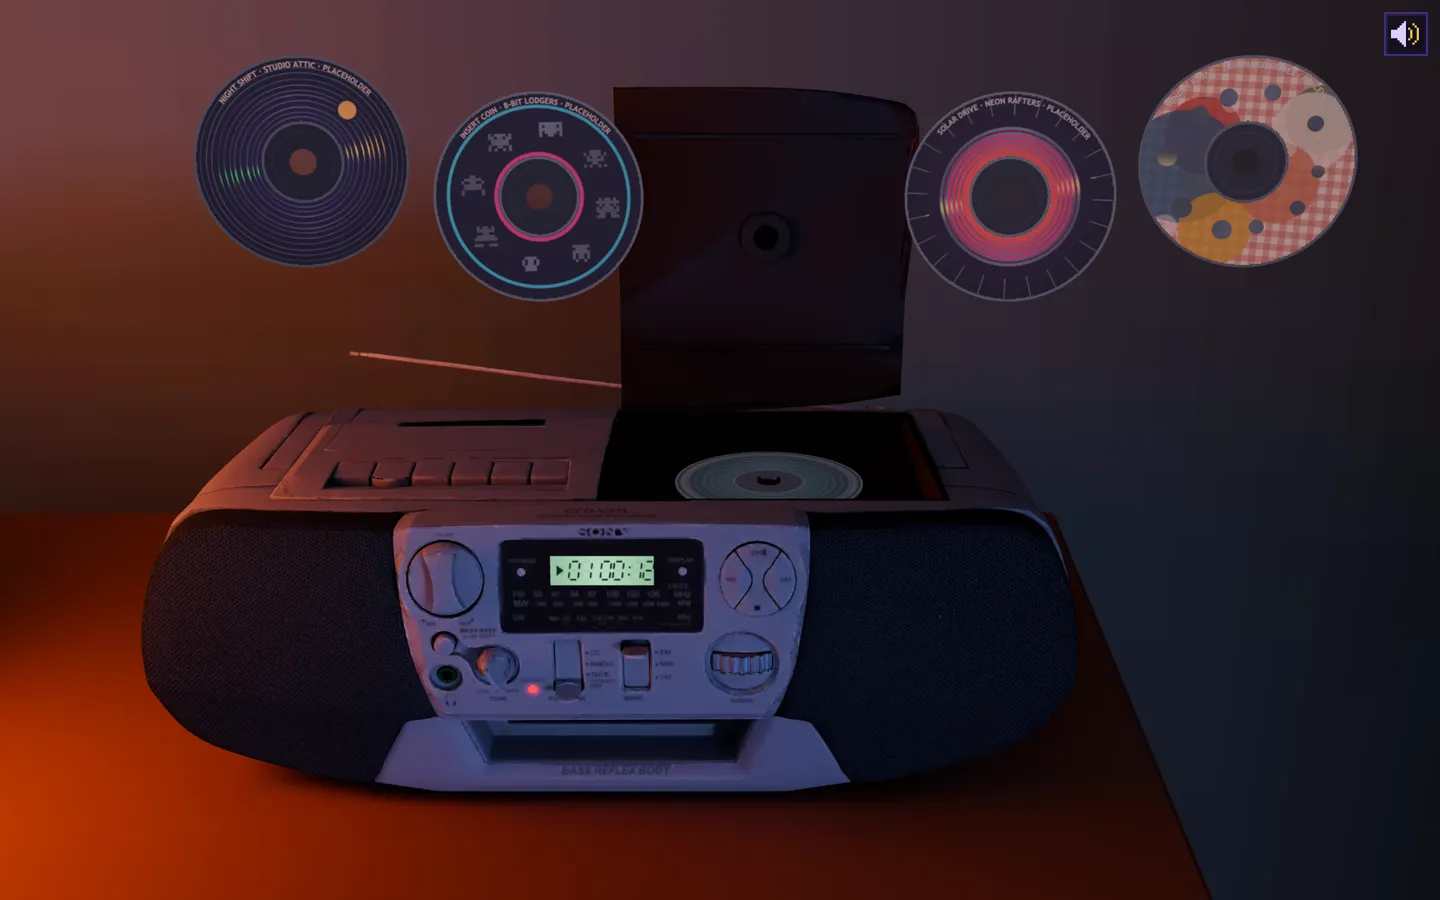
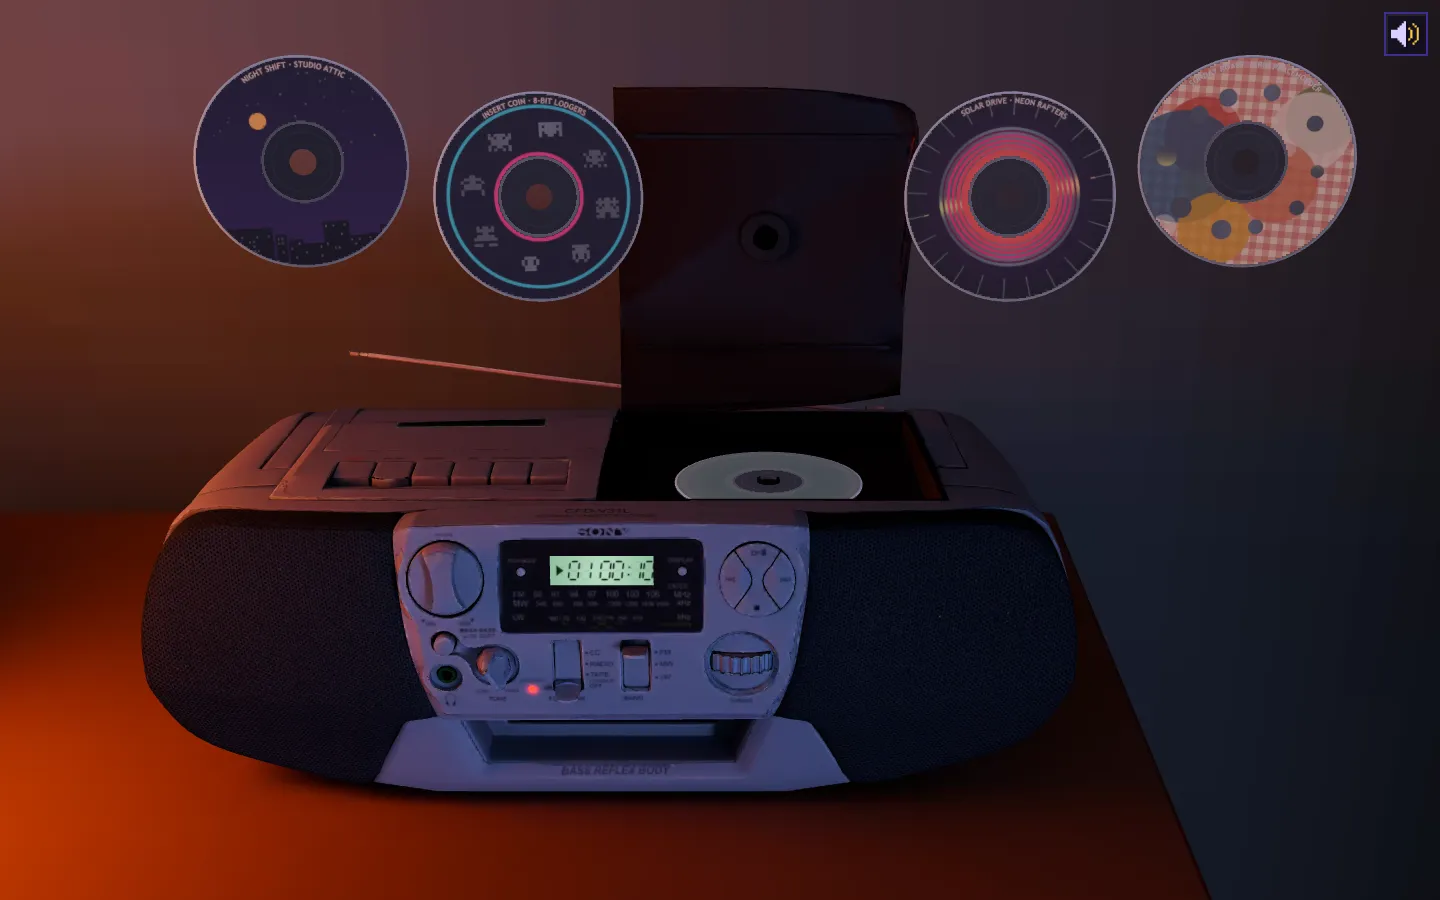
docs(radio): the CD player after the first review
ROOM.md's CD player section describes the new storyboard and its
timings, the no-contact guarantee and how it is checked, the skin's
strips, urgent and patient idle work, the lazy pose, the prints'
behaviour, the reduced-motion hold and the re-measured frames and first
frame. RADIO.md follows the 0.4 s prefetch, the hint, the bar, the rim
text, the art timeout, the foley's idle start and the new measurements;
PC.md notes that the reader's focus ring follows the page's last input
from its start (a behaviour change from feat/pc-desktop); the art
direction gets a fresh capture from the app.

bundle-budgets.json records what the fixes cost, pending the captain's
word: the room chunk 189.15 -> 189.52 kB (budget 189.55) for the lazy
pose and cut hold, urgent and patient idle work, the close-up fetched
beside the chunk, the shelf signal and one seat per insert; the lazy
device 22.11 -> 25.76 kB (budget 26.0) for the contact-free storyboard,
the skin's strips, the safe cut, moments without frames, the prints'
fade and the data side's light.

diff --git a/docs/RADIO.md b/docs/RADIO.md
@@ -40,8 +40,8 @@ It renders a portal into `deck.controls` only, a sibling of the stage outside `r
 | Chunk | Contents | Loaded |
 | --- | --- | --- |
 | main bundle | `RadioSlot.tsx` and its failure message's style | first load |
-| `RadioExperience-*` (`RadioExperience.tsx` + CSS) | the player, the foley recipes, the Media Session, the print painter, the controls, the shelf's data and file URLs | at once when the view becomes `radio` (the 1.1 s flight hides it); or at idle once the camera has rested in the room view for 3 s (after the computer's screen, which loads as the camera lands, and the room's half, `deck.prefetch('idle')` at 1.5 s, so the lid opens on time for a visitor who heads for the radio soon); it first mounts, and paints the prints, only while the camera rests; never on Save-Data, never before the TV's picture is up, never for a radio that is `available: false` |
-| covers and prints | five WebPs, decoded off the main thread at the label size (`createImageBitmap` with a resize), then painted one per idle moment while the camera rests away from the TV (`labels/discPrints.ts`) and handed to the room together | when the player mounts |
+| `RadioExperience-*` (`RadioExperience.tsx` + CSS) | the player, the foley recipes, the Media Session, the print painter, the controls, the shelf's data and file URLs | at once when the view becomes `radio` (the 1.1 s flight hides it); or at idle once the camera has rested in the room view for 3 s (after the computer's screen, which loads as the camera lands, and the room's half, `deck.prefetch('idle')` at 0.4 s, so a visitor who heads for the radio at once still finds its device preparing on the way and the lid opening on time); it first mounts, and paints the prints, only while the camera rests; never on Save-Data, never before the TV's picture is up, never for a radio that is `available: false` |
+| covers and prints | five WebPs, decoded off the main thread at the label size (`createImageBitmap` with a resize), then painted one per idle moment while the camera rests away from the TV (`labels/discPrints.ts`) on CPU canvases (nothing reads the GPU back) and handed to the room together; one that has not arrived in 6 s is given up on (`labels/loadArt.ts`) | when the player mounts |
 | audio | one track at a time, streamed | from the pick that needs it |
 
 Once loaded the player stays mounted for the page, so the music survives leaving the radio.
@@ -80,7 +80,7 @@ A hidden tab keeps playing.
 
 Every cue the room emits plays a synthesised engine `SfxRecipe` (clicks, latches, whooshes, the motor's spin-up and spin-down, a pentatonic bell per rising disc, descending as they sink), plus the app's own `seek` tick on each skip, between −22 and −40 dBFS, panned from where the part moves on screen.
 Nothing is continuous while playing: a real CD motor is silent at speed.
-They play in a small `AudioContext` of their own (the game's is suspended whenever the camera leaves the TV). It is made with its mixer graph as the player mounts away from the radio (at idle, suspended, once the page has had user activation), so the click that sends the camera there only resumes it, or else inside the first radio gesture; resumed in every radio gesture and on reaching the radio, suspended 2 s after leaving it; cues arriving while it sleeps are dropped. If it cannot be made the radio is silent of mechanics and the music is unaffected.
+They play in a small `AudioContext` of their own (the game's is suspended whenever the camera leaves the TV). It is made with its mixer graph in an idle moment of its own after the player mounts away from the radio (suspended, once the page has had user activation: making one is the dearest part of the player's start, 74 ms on a slow phone), so the click that sends the camera there only resumes it, or else inside the first radio gesture; resumed in every radio gesture and on reaching the radio, suspended 2 s after leaving it; cues arriving while it sleeps are dropped. If it cannot be made the radio is silent of mechanics and the music is unaffected.
 Each recipe's gain is calibrated from an offline render so it peaks at its level; `e2e/radio-player.spec.ts` renders every one through the engine's mixer and holds it to ±3 dB, no clipping, and silence by its end.
 
 ## Controls (`ui/`)
@@ -89,10 +89,10 @@ Portaled into `deck.controls`, a `<section aria-label="CD player">`. The layer t
 
 - **CDs**: `role="toolbar" aria-label="CDs"`, one Tab stop, ←/→ and Home/End move between the albums (the shared roving tabindex, `app/a11y/roving.ts`). One button per album sits as a circle over its disc (over the seat for the loaded one), invisible until a keyboard focus rings the disc itself in `#ffc83d` and brings it forward. Labels say "Night Shift by Studio Attic, 2 tracks", with ", in the player" and `aria-current` for the loaded disc. Enter or Space plays it (the loaded one: play/pause).
 - **Transport** on fine pointers: `role="toolbar" aria-label="CD player controls"`, "Previous track", "Play"/"Pause" (the label changes, no `aria-pressed`), "Stop", "Next track", each over its key on the model; `aria-disabled` with an empty player (still focusable: activation says "Choose a CD first.").
-- **Touch bar** on a primary coarse pointer: 48 px keys on the sound toggle's dark plate: back ("Look around the room"), ⏮, ▶/‖, ■, ⏭ and "Kettle On · Night Shift" along the bottom (64 px plus the safe area), or stacked down a right rail on a landscape phone under 480 px tall. Each key presses its 3D twin too. It reports its strip through `setControlInsets`, and the room frames the radio clear of it.
+- **Touch bar** on a primary coarse pointer: 48 px keys on the sound toggle's dark plate: back ("Look around the room"), ⏮, ▶/‖, ■, ⏭ and what plays on two lines, the track over the album ("Kettle On", "Night Shift"), along the bottom (64 px plus the safe area), or stacked down a right rail on a landscape phone under 480 px tall. Each key presses its 3D twin too. It reports its strip through `setControlInsets`, and the room frames the radio clear of it.
 - **Caption** (`aria-hidden`): under the disc that has the visitor's attention (over it for the disc in the player, so the keys stay in sight), in the view hint's pixel plate: "Night Shift — Studio Attic", "2 tracks · 1:38", a "placeholder" tag and "Sound is off" when they apply; a 120 ms fade.
-- **Hint** (`radioHints.ts`, `localStorage` `reo-leo:radio-hints`): 1.2 s after landing, "Click a CD to play it" ("Tap…" on touch) until the first pick; then, with a mouse, "Click outside the radio to look around" until the visitor has left once.
-- **One live region** (`role="status"`, polite): "Playing Kettle On, track 1 of 2, from Night Shift by Studio Attic." (+ " Sound is off."), "Paused.", "Playing.", "Stopped.", "End of the CD.", "This track could not be played.", "Choose a CD first.", "Press play to start the music." The same words within a second are said once; never the clock, a hover or a focus.
+- **Hint** (`radioHints.ts`, `localStorage` `reo-leo:radio-hints`): 450 ms after the discs are up (never before: it names them), "Click a CD to play it" ("Tap…" on touch, "Press Enter to play a CD" for a keyboard) until the first pick; then, with a mouse or a keyboard, "Click outside the radio to look around" ("Press Escape to look around") until the visitor has left once. On a phone's bottom bar it shows in the bar, where what plays will be (on two lines if it must); elsewhere in the view hint's plate.
+- **One live region** (`role="status"`, polite): "Playing Kettle On, track 1 of 2, from Night Shift by Studio Attic." (+ " Sound is off."), "Track 2 of 2, Window Seat." (a track chosen while paused or stopped), "Paused.", "Playing.", "Stopped.", "End of the CD.", "This track could not be played.", "Choose a CD first.", "Press play to start the music." The same words within a second are said once; never the clock, a hover or a focus. The CDs' toolbar is described by "Enter plays a CD; Escape returns to the room." for a screen reader landing on it.
 - **Keyboard**: arriving moves focus to the CDs (the loaded disc's button, else the first); Escape anywhere in the controls leaves for the room; the controls hiding with focus inside hand it back to the stage.
 
 **Media Session** (`player/mediaSession.ts`): while a disc is loaded, the track's title, the artist, the album and its cover; `playbackState`; play, pause, stop, previous and next as the radio's keys (pressing the 3D key while the visitor is at the radio; at the TV, play only asks to resume on leaving); the position on play, pause, track changes and seeks. Nothing at all with no disc, or without the API.
@@ -105,7 +105,7 @@ Portaled into `deck.controls`, a `<section aria-label="CD player">`. The layer t
 The five placeholders are original, made for this site: eleven tracks composed in the game's own tracker (`scripts/radio/songs`), rendered through the game's synth, loudness-matched to the game's first stage and encoded to AAC (4.94 MB together), and seeded generative covers and prints without text or marks (`scripts/radio/covers.ts`); see `scripts/radio/README.md`.
 Each is marked `placeholder: true`, so its caption and its print say so.
 
-Disc prints (`labels/discLabel.ts`): the album's `disc` print as it is, or its cover filling the disc, then the rim text every CD carries, "NIGHT SHIFT · STUDIO ATTIC · PLACEHOLDER", set round the top at 54.5 mm in 3.2 mm capitals; a print that fails to load becomes a plain disc in a colour of its own, with its text.
+Disc prints (`labels/discLabel.ts`): the album's `disc` print as it is, or its cover filling the disc, then the rim text every CD carries, "NIGHT SHIFT · STUDIO ATTIC", set round the top at 54.5 mm in 3.2 mm capitals (a placeholder says so in its caption, not on the disc); a print that fails to load, or has not arrived in 6 s, becomes a plain disc in a colour of its own, with its text.
 
 ## Your own albums
 
@@ -156,25 +156,22 @@ The panel moves the camera (radio, room, pc, tv) and toggles the sound; clicking
 | --- | ---: | ---: |
 | Entry JS: `RadioSlot`, the room host's radio changes and the input-modality watcher, against `feat/pc-desktop` | + 0.60 kB (raised to + 0.75, pending the captain's word: `bundle-budgets.json`) | + 0.71 kB |
 | Entry CSS | + 0.15 kB | + 0.04 kB |
-| `RadioExperience` closure, JS + CSS, no three.js | 15 kB | 13.05 kB |
+| `RadioExperience` closure, JS + CSS, no three.js | 15 kB | 13.46 kB |
 | Placeholder audio | 5.5 MB | 4.94 MB |
 | Covers / prints | 40 kB / 60 kB each | ≤ 16.8 kB / ≤ 45.3 kB |
 
-Measured in the real app (development server, Chromium on an M-series Mac, the radio prepared at idle; `e2e/radio-flow.spec.ts` holds the first two to 1.0 s and 0.35 s):
+Measured in the real app (development server, Chromium on an M-series Mac, the radio prepared at idle; `e2e/radio-flow.spec.ts` holds pick → sound to 1.0 s, 1.5 s for a disc chosen before it is out, and 0.35 s under reduced motion):
 
 | | 1× CPU | 6× CPU |
 | --- | ---: | ---: |
-| Pick → sound | 0.91 s | 0.93 s |
-| Pick → sound, reduced motion | 0.03 s | 0.09 s |
-| Long animation frames over 50 ms in the flights to and from the radio and the arrival until the discs are up | none | none |
+| Pick → sound | 0.94 s | 0.93 s (a phone: 0.95 s) |
+| A keyboard pick the moment the camera lands, the disc still inside the radio | 1.41 s | |
+| Long animation frames over 50 ms in the flights to and from the radio, the arrival until the discs are up, an insert and a swap | none | none |
+| The prints on the discs after an eager click (the radio clicked as soon as the camera rests in the room) | 1.25–1.35 s, before the shelf is up | |
 | Frames over 2 s at the computer with a disc playing | 0 | |
-
-And on the production lab build:
-
-| | 1× CPU | 6× CPU |
-| --- | ---: | ---: |
-| Long tasks over 50 ms: the player mounting and painting the prints, the flight in, a pick, a swap, the keys | none | none |
 | Media elements, `decodeAudioData` calls, audio contexts of the radio's own | 1, 0, 1 | |
+
+And on the production build (6× CPU, two runs): no long animation frame over 50 ms from the click to the radio through its arrival and a pick, the longest frame gap 29–32 ms; 0 frames at rest at the radio, 2–3 in 2 s playing (the clock); the first look around the room fetches 376.5 kB of radio and room work in 15 requests, the pick 436 kB (the first track).
 
 ## Modules
 

diff --git a/docs/ARCHITECTURE.md b/docs/ARCHITECTURE.md
@@ -325,7 +325,7 @@ A vanilla three.js stage that loads the attic room exported from Blender (`publi
 - The CD player (`room.radio`, `radio/`): the room owns the machine and knows nothing about music; the app hands it discs and a declarative deck state and hears back through intents (a pick, a key), mechanical cues and `seated` (the disc is on the spindle and ▷II pressed: start the sound). Its eager glue lives in the room chunk; the device — the whole storyboard as pure functions of time, the disc shader, the LCD — is a lazy chunk with a lazy close-up asset, prefetched and prepared in idle units ahead of the visit, and the radio is scenery again if any of it fails.
 - `room.anchors` tells the app where the TV, the computer and the radio sit in the room view, so it can pin keyboard hotspots on them and an edge chip when a prop is cropped out.
 - Other props register as `Interactable`s with a hit test (or their own ray test, `intersect`) and an `activate()` hook, so future interactions (PlayStation, guitar, posters) plug in without touching the TV logic. Pointer rays test large merged meshes chunk by chunk (`interaction/pickMeshes.ts`), so hovering and clicking stay cheap on slow CPUs.
-- Work that can be done ahead of need (the pick chunks, the monitor's glass finish and still, the uploads of textures no frame has drawn yet, the radio's close-up, labels and skin) runs in small units on idle time (`stage/IdleWork.ts`), after the first frame, never while the camera flies or the TV powers on or off, and while the game plays only in idle moments that can hold a unit, never a GPU upload; so neither the first frame, the game, a flight nor (on all but very slow devices) a click pays for it. Textures the TV view never draws wait for the first look around, so a visitor who stays at the TV allocates no more than before the computer existed.
+- Work that can be done ahead of need (the pick chunks, the monitor's glass finish and still, the uploads of textures no frame has drawn yet, the radio's close-up, labels and skin) runs in small units on idle time (`stage/IdleWork.ts`), after the first frame, never while the camera flies or the TV powers on or off (but for the radio's own work on the way to it and there, which may go between the flight's and the float's frames where they leave room), and while the game plays only in idle moments that can hold a unit, never a GPU upload; so neither the first frame, the game, a flight nor (on all but very slow devices) a click pays for it. Textures the TV view never draws wait for the first look around, so a visitor who stays at the TV allocates no more than before the computer existed.
 
 Rendering is on demand: 60 fps while the TV is focused and the game runs, otherwise only on camera motion, lava-lamp animation (24 fps, only when visible), resize, or a single frame when the monitor's still or light changes; nothing at all while the visitor sits at the computer. At the radio the choreography draws while it moves, the floating discs' idle at most 30 frames per second while the visitor is there, and once it rests nothing but the LCD clock's one frame per second while playing. See [docs/ROOM.md](ROOM.md).
 

diff --git a/docs/PC.md b/docs/PC.md
@@ -116,7 +116,7 @@ First visit in a page load (readable at 1.85 s; reader ready measured at 1.88 s 
 - **Title bar**: the blue gradient, square-cornered because the window is maximised, the reader's mark (a white folded sheet on a red square), bold 13 px Trebuchet title with ellipsis; minimise and restore are decoration; close is a real `<button aria-label="Close the résumé">` whose hit area is 44 × 44 CSS px at any scale, growing from the window's (and the screen's) top-right corner to the left and down.
 - **Menus** (File … Help) and the navigation strip's Bookmarks and Pages tabs are decoration.
 - **Toolbar**: Save a Copy, Hand and Select are decoration; Print (`window.print()`, which prints the semantic résumé; every PC layer is `display: none` in print), Email (`mailto:`), Zoom out, the zoom field (50–200 %, Fit Width, Reflow), Zoom in, Fit Width and Reflow form one `role="toolbar"` with a roving tabindex.
-- **Document pane**: `role="document"`, `aria-label="Roel Leenders' résumé"`, focusable for native keyboard scrolling (a click on the monitor's bezel or keyboard leaves the focus there), with a focus ring of a 1 px black line round a 2 px white one (each over 3:1 against the grey); grey, with the pages centred 12 px apart; native pinch zoom stays the browser's. A4 pages are laid out once at 794 × 1123 and scaled with a transform inside a box sized to them, so zooming never re-lays out or re-paginates. Reflow re-typesets the same page groups at the pane's width, 16 CSS px, at most 68 ch per line.
+- **Document pane**: `role="document"`, `aria-label="Roel Leenders' résumé"`, focusable for native keyboard scrolling (a click on the monitor's bezel or keyboard leaves the focus there), with a focus ring of a 1 px black line round a 2 px white one (each over 3:1 against the grey), shown only to a visitor whose last input was a key (`app/a11y/inputModality.ts`, watched from the page's start: one who opens the computer by keyboard before its chunk has loaded gets the ring at once, as at the radio); grey, with the pages centred 12 px apart; native pinch zoom stays the browser's. A4 pages are laid out once at 794 × 1123 and scaled with a transform inside a box sized to them, so zooming never re-lays out or re-paginates. Reflow re-typesets the same page groups at the pane's width, 16 CSS px, at most 68 ch per line.
 - **Status bar**: 8.27 × 11.69 in, first / previous / "n of N" / next / last (the page from an IntersectionObserver band across the pane's middle, no scroll listeners; the 20 px buttons are 25 px apart, WCAG 2.5.8's spacing for small targets), decorative layout buttons.
 - **Dialog**: `role="dialog"`, `aria-modal`, labelled by the title; Tab cycles close → toolbar → document → its links → page buttons → close. Before it opens, focus rests on the screen's root, a section labelled "Computer screen".
 - **Cursors** (`cursors.ts`): an original arrow and busy arrow as SVG data URIs over the screen; `text` over page text and `pointer` over links.

diff --git a/docs/ROOM-ART-DIRECTION.md b/docs/ROOM-ART-DIRECTION.md
@@ -113,7 +113,10 @@ shadow maps or a postprocessing stack for that appearance.
   bake's own three sources (the lilac ambient, the lava lamp, the moon) by name, a silver
   foil that reflects the dark room and draws the lamp's spoke and rainbow across its tracks,
   matte ink under a varnish glint and a smoky hub, so plain silver discs already read as
-  CDs in the night palette rather than as stickers. Nothing added carries a mark; the
+  CDs in the night palette rather than as stickers. Their data side, which faces the camera
+  as they rise and go home, is a lit silver mirror with the lamp's spoke and rainbow and a
+  polished rim, never a flat grey; the placeholder prints are a CD's (a skyline, a tide
+  across the label), not a record's grooves. Nothing added carries a mark; the
   model's own prints stay as shipped.
 - **Wastepaper:** the original lightweight basket and all 18 crumpled papers remain.
   The basket moves 17 cm left to clear the desk and wall trim. Its 15 inner papers

diff --git a/scripts/radio/README.md b/scripts/radio/README.md
@@ -46,9 +46,9 @@ A seeded painter per album draws SVG that sharp rasterises into `cover.webp` (51
 
 | Album | Cover | Disc print |
 | --- | --- | --- |
-| Night Shift | concentric grooves under a desk lamp | grooves cut into the foil |
+| Night Shift | a night skyline with lit windows under a lamp-coloured moon | the skyline round the lower half of the label, its windows and the stars in foil |
 | Insert Coin | a formation of seeded pixel creatures and a coin over scanlines | the creatures marching round in foil |
-| Low Tide | tide lines on a grey-green sea | tide bands of foil |
+| Low Tide | tide lines on a grey-green sea, a lighthouse and its beam | the tide straight across the label and the beam in foil (no rings: a CD's print, not a record's grooves) |
 | Solar Drive | a banded sun over a perspective grid | the sun's bands and the grid in foil |
 | Sunday Roast | overlapping plates on a gingham cloth | foil dots between the plates |
 
